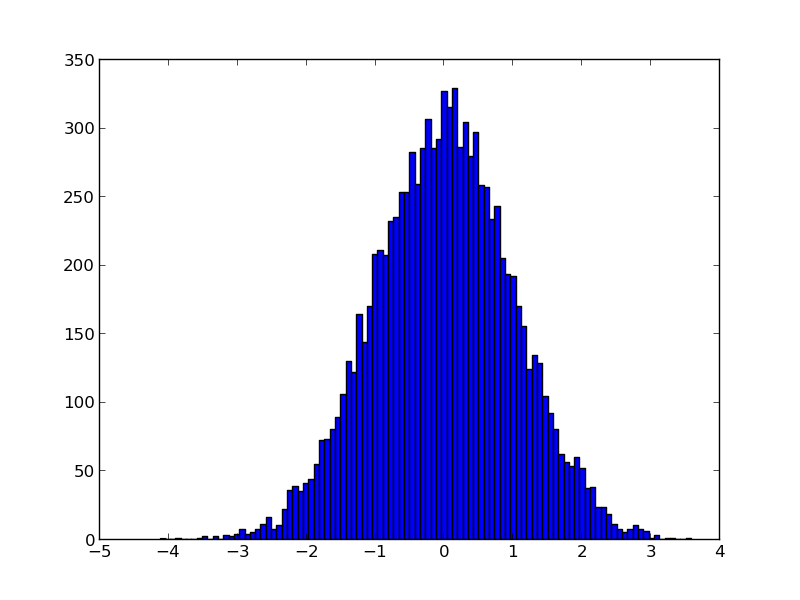
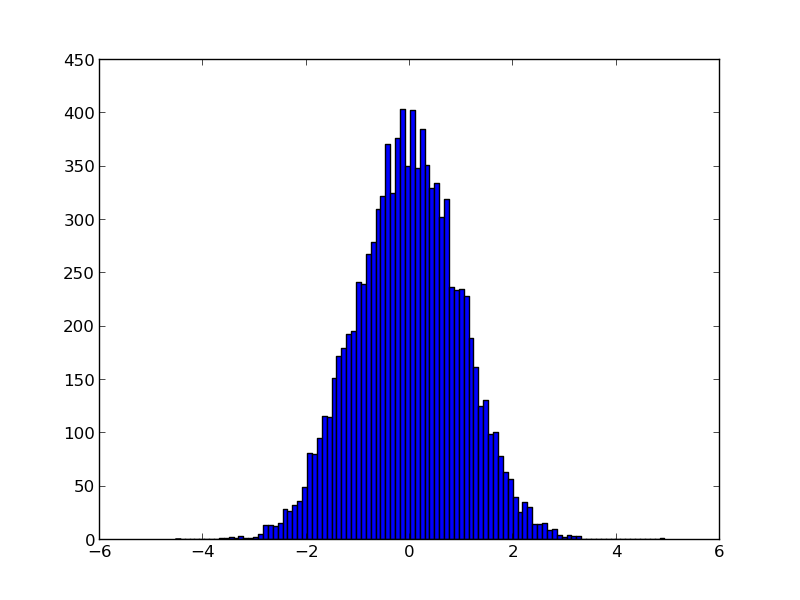
Add record-vars example.

diff --git a/2013/infrastructure-for-reproducibility/output-site/example/index.html b/2013/infrastructure-for-reproducibility/output-site/example/index.html
@@ -398,34 +398,34 @@ Change widths as necessary
 <p>Generate random data and plot a histogram:
 <div class="highlight"><pre><a name="example--code001.py-idio-pycon-pyg.html-1"></a><span class="gp">&gt;&gt;&gt; </span><span class="n">x</span> <span class="o">=</span> <span class="n">numpy</span><span class="o">.</span><span class="n">random</span><span class="o">.</span><span class="n">randn</span><span class="p">(</span><span class="mi">10000</span><span class="p">)</span>
 <a name="example--code001.py-idio-pycon-pyg.html-2"></a><span class="gp">&gt;&gt;&gt; </span><span class="n">pyplot</span><span class="o">.</span><span class="n">hist</span><span class="p">(</span><span class="n">x</span><span class="p">,</span> <span class="mi">100</span><span class="p">)</span>
-<a name="example--code001.py-idio-pycon-pyg.html-3"></a><span class="go">(array([  1,   0,   0,   1,   0,   0,   0,   1,   2,   0,   2,   0,   3,</span>
-<a name="example--code001.py-idio-pycon-pyg.html-4"></a><span class="go">         2,   4,   7,   4,   5,   7,  11,  16,   7,  10,  22,  36,  39,</span>
-<a name="example--code001.py-idio-pycon-pyg.html-5"></a><span class="go">        35,  41,  44,  55,  72,  73,  80,  89, 106, 130, 122, 164, 144,</span>
-<a name="example--code001.py-idio-pycon-pyg.html-6"></a><span class="go">       170, 208, 211, 207, 232, 235, 253, 253, 282, 259, 285, 306, 285,</span>
-<a name="example--code001.py-idio-pycon-pyg.html-7"></a><span class="go">       292, 327, 315, 329, 286, 304, 279, 297, 258, 257, 233, 243, 205,</span>
-<a name="example--code001.py-idio-pycon-pyg.html-8"></a><span class="go">       193, 192, 170, 155, 124, 134, 128, 104,  92,  80,  62,  56,  53,</span>
-<a name="example--code001.py-idio-pycon-pyg.html-9"></a><span class="go">        60,  52,  37,  38,  23,  23,  18,  11,   7,   5,   7,  10,   7,</span>
-<a name="example--code001.py-idio-pycon-pyg.html-10"></a><span class="go">         6,   1,   3,   0,   1,   1,   0,   0,   1]), array([-4.12189527, -4.04472509, -3.96755491, -3.89038473, -3.81321455,</span>
-<a name="example--code001.py-idio-pycon-pyg.html-11"></a><span class="go">       -3.73604436, -3.65887418, -3.581704  , -3.50453382, -3.42736364,</span>
-<a name="example--code001.py-idio-pycon-pyg.html-12"></a><span class="go">       -3.35019346, -3.27302328, -3.1958531 , -3.11868292, -3.04151274,</span>
-<a name="example--code001.py-idio-pycon-pyg.html-13"></a><span class="go">       -2.96434256, -2.88717238, -2.8100022 , -2.73283202, -2.65566183,</span>
-<a name="example--code001.py-idio-pycon-pyg.html-14"></a><span class="go">       -2.57849165, -2.50132147, -2.42415129, -2.34698111, -2.26981093,</span>
-<a name="example--code001.py-idio-pycon-pyg.html-15"></a><span class="go">       -2.19264075, -2.11547057, -2.03830039, -1.96113021, -1.88396003,</span>
-<a name="example--code001.py-idio-pycon-pyg.html-16"></a><span class="go">       -1.80678985, -1.72961967, -1.65244948, -1.5752793 , -1.49810912,</span>
-<a name="example--code001.py-idio-pycon-pyg.html-17"></a><span class="go">       -1.42093894, -1.34376876, -1.26659858, -1.1894284 , -1.11225822,</span>
-<a name="example--code001.py-idio-pycon-pyg.html-18"></a><span class="go">       -1.03508804, -0.95791786, -0.88074768, -0.8035775 , -0.72640732,</span>
-<a name="example--code001.py-idio-pycon-pyg.html-19"></a><span class="go">       -0.64923713, -0.57206695, -0.49489677, -0.41772659, -0.34055641,</span>
-<a name="example--code001.py-idio-pycon-pyg.html-20"></a><span class="go">       -0.26338623, -0.18621605, -0.10904587, -0.03187569,  0.04529449,</span>
-<a name="example--code001.py-idio-pycon-pyg.html-21"></a><span class="go">        0.12246467,  0.19963485,  0.27680503,  0.35397522,  0.4311454 ,</span>
-<a name="example--code001.py-idio-pycon-pyg.html-22"></a><span class="go">        0.50831558,  0.58548576,  0.66265594,  0.73982612,  0.8169963 ,</span>
-<a name="example--code001.py-idio-pycon-pyg.html-23"></a><span class="go">        0.89416648,  0.97133666,  1.04850684,  1.12567702,  1.2028472 ,</span>
-<a name="example--code001.py-idio-pycon-pyg.html-24"></a><span class="go">        1.28001738,  1.35718757,  1.43435775,  1.51152793,  1.58869811,</span>
-<a name="example--code001.py-idio-pycon-pyg.html-25"></a><span class="go">        1.66586829,  1.74303847,  1.82020865,  1.89737883,  1.97454901,</span>
-<a name="example--code001.py-idio-pycon-pyg.html-26"></a><span class="go">        2.05171919,  2.12888937,  2.20605955,  2.28322973,  2.36039992,</span>
-<a name="example--code001.py-idio-pycon-pyg.html-27"></a><span class="go">        2.4375701 ,  2.51474028,  2.59191046,  2.66908064,  2.74625082,</span>
-<a name="example--code001.py-idio-pycon-pyg.html-28"></a><span class="go">        2.823421  ,  2.90059118,  2.97776136,  3.05493154,  3.13210172,</span>
-<a name="example--code001.py-idio-pycon-pyg.html-29"></a><span class="go">        3.2092719 ,  3.28644208,  3.36361227,  3.44078245,  3.51795263,</span>
-<a name="example--code001.py-idio-pycon-pyg.html-30"></a><span class="go">        3.59512281]), &lt;a list of 100 Patch objects&gt;)</span>
+<a name="example--code001.py-idio-pycon-pyg.html-3"></a><span class="go">(array([  1,   0,   0,   0,   0,   0,   0,   0,   0,   1,   1,   2,   1,</span>
+<a name="example--code001.py-idio-pycon-pyg.html-4"></a><span class="go">         3,   1,   1,   2,   5,  13,  13,  12,  15,  28,  26,  32,  36,</span>
+<a name="example--code001.py-idio-pycon-pyg.html-5"></a><span class="go">        49,  81,  80,  95, 115, 114, 151, 172, 179, 192, 195, 241, 239,</span>
+<a name="example--code001.py-idio-pycon-pyg.html-6"></a><span class="go">       267, 278, 309, 322, 370, 324, 376, 403, 350, 402, 348, 384, 351,</span>
+<a name="example--code001.py-idio-pycon-pyg.html-7"></a><span class="go">       329, 334, 302, 319, 236, 233, 234, 228, 188, 161, 125, 130,  98,</span>
+<a name="example--code001.py-idio-pycon-pyg.html-8"></a><span class="go">       100,  78,  63,  56,  39,  25,  35,  30,  14,  14,  15,   8,   9,</span>
+<a name="example--code001.py-idio-pycon-pyg.html-9"></a><span class="go">         4,   2,   4,   3,   3,   0,   0,   0,   0,   0,   0,   0,   0,</span>
+<a name="example--code001.py-idio-pycon-pyg.html-10"></a><span class="go">         0,   0,   0,   0,   0,   0,   0,   0,   1]), array([-4.53225772, -4.43749528, -4.34273284, -4.24797041, -4.15320797,</span>
+<a name="example--code001.py-idio-pycon-pyg.html-11"></a><span class="go">       -4.05844553, -3.9636831 , -3.86892066, -3.77415822, -3.67939579,</span>
+<a name="example--code001.py-idio-pycon-pyg.html-12"></a><span class="go">       -3.58463335, -3.48987091, -3.39510848, -3.30034604, -3.2055836 ,</span>
+<a name="example--code001.py-idio-pycon-pyg.html-13"></a><span class="go">       -3.11082117, -3.01605873, -2.92129629, -2.82653386, -2.73177142,</span>
+<a name="example--code001.py-idio-pycon-pyg.html-14"></a><span class="go">       -2.63700898, -2.54224655, -2.44748411, -2.35272167, -2.25795923,</span>
+<a name="example--code001.py-idio-pycon-pyg.html-15"></a><span class="go">       -2.1631968 , -2.06843436, -1.97367192, -1.87890949, -1.78414705,</span>
+<a name="example--code001.py-idio-pycon-pyg.html-16"></a><span class="go">       -1.68938461, -1.59462218, -1.49985974, -1.4050973 , -1.31033487,</span>
+<a name="example--code001.py-idio-pycon-pyg.html-17"></a><span class="go">       -1.21557243, -1.12080999, -1.02604756, -0.93128512, -0.83652268,</span>
+<a name="example--code001.py-idio-pycon-pyg.html-18"></a><span class="go">       -0.74176025, -0.64699781, -0.55223537, -0.45747294, -0.3627105 ,</span>
+<a name="example--code001.py-idio-pycon-pyg.html-19"></a><span class="go">       -0.26794806, -0.17318563, -0.07842319,  0.01633925,  0.11110168,</span>
+<a name="example--code001.py-idio-pycon-pyg.html-20"></a><span class="go">        0.20586412,  0.30062656,  0.39538899,  0.49015143,  0.58491387,</span>
+<a name="example--code001.py-idio-pycon-pyg.html-21"></a><span class="go">        0.6796763 ,  0.77443874,  0.86920118,  0.96396362,  1.05872605,</span>
+<a name="example--code001.py-idio-pycon-pyg.html-22"></a><span class="go">        1.15348849,  1.24825093,  1.34301336,  1.4377758 ,  1.53253824,</span>
+<a name="example--code001.py-idio-pycon-pyg.html-23"></a><span class="go">        1.62730067,  1.72206311,  1.81682555,  1.91158798,  2.00635042,</span>
+<a name="example--code001.py-idio-pycon-pyg.html-24"></a><span class="go">        2.10111286,  2.19587529,  2.29063773,  2.38540017,  2.4801626 ,</span>
+<a name="example--code001.py-idio-pycon-pyg.html-25"></a><span class="go">        2.57492504,  2.66968748,  2.76444991,  2.85921235,  2.95397479,</span>
+<a name="example--code001.py-idio-pycon-pyg.html-26"></a><span class="go">        3.04873722,  3.14349966,  3.2382621 ,  3.33302453,  3.42778697,</span>
+<a name="example--code001.py-idio-pycon-pyg.html-27"></a><span class="go">        3.52254941,  3.61731184,  3.71207428,  3.80683672,  3.90159915,</span>
+<a name="example--code001.py-idio-pycon-pyg.html-28"></a><span class="go">        3.99636159,  4.09112403,  4.18588646,  4.2806489 ,  4.37541134,</span>
+<a name="example--code001.py-idio-pycon-pyg.html-29"></a><span class="go">        4.47017378,  4.56493621,  4.65969865,  4.75446109,  4.84922352,</span>
+<a name="example--code001.py-idio-pycon-pyg.html-30"></a><span class="go">        4.94398596]), &lt;a list of 100 Patch objects&gt;)</span>
 </pre></div></p>
 <p>Save the histogram to a png file:
 <div class="highlight"><pre><a name="example--code001.py-idio-pycon-pyg.html-1"></a><span class="gp">&gt;&gt;&gt; </span><span class="n">figfilename</span> <span class="o">=</span> <span class="s">&quot;pyplot-hist-example.png&quot;</span>
@@ -465,10 +465,14 @@ Change widths as necessary
 </pre></div>
 
 <div class="highlight"><pre><a name="example--code002.py-idio-pycon-pyg.html-1"></a><span class="gp">&gt;&gt;&gt; </span><span class="n">pyplot</span><span class="o">.</span><span class="n">plot</span><span class="p">(</span><span class="n">x</span><span class="p">,</span> <span class="n">y</span><span class="p">)</span>
-<a name="example--code002.py-idio-pycon-pyg.html-2"></a><span class="go">[&lt;matplotlib.lines.Line2D object at 0x2557850&gt;]</span>
+<a name="example--code002.py-idio-pycon-pyg.html-2"></a><span class="go">[&lt;matplotlib.lines.Line2D object at 0x2e46850&gt;]</span>
 </pre></div>
 
 <p><img alt="xy plot from csv data" src="pyplot-xy-example.png" /></p>
+<p>Here are the values in 'x':
+["1", "2", "3"]</p>
+<p>Here are the values in 'y':
+["1", "4", "9"]</p>
         </div>
     </div>
     </body>

diff --git a/2013/infrastructure-for-reproducibility/output-site/example/index.md.html b/2013/infrastructure-for-reproducibility/output-site/example/index.md.html
@@ -32,4 +32,10 @@
 <a name="example--index.md-pyg.html-32"></a><span class="p">{{</span> <span class="n">d</span><span class="p">[</span><span class="err">&#39;</span><span class="n">code002</span><span class="p">.</span><span class="n">py</span><span class="p">|</span><span class="n">idio</span><span class="p">|</span><span class="n">pycon</span><span class="p">|</span><span class="n">pyg</span><span class="err">&#39;</span><span class="p">][</span><span class="err">&#39;</span><span class="n">graph</span><span class="p">-</span><span class="n">data</span><span class="err">&#39;</span><span class="p">]</span> <span class="p">}}</span>
 <a name="example--index.md-pyg.html-33"></a>
 <a name="example--index.md-pyg.html-34"></a><span class="p">![</span><span class="n">xy</span> <span class="n">plot</span> <span class="n">from</span> <span class="n">csv</span> <span class="n">data</span><span class="p">](</span><span class="n">pyplot</span><span class="p">-</span><span class="n">xy</span><span class="p">-</span><span class="n">example</span><span class="p">.</span><span class="n">png</span><span class="p">)</span>
+<a name="example--index.md-pyg.html-35"></a>
+<a name="example--index.md-pyg.html-36"></a><span class="n">Here</span> <span class="n">are</span> <span class="n">the</span> <span class="n">values</span> <span class="k">in</span> <span class="sc">&#39;x&#39;</span><span class="p">:</span>
+<a name="example--index.md-pyg.html-37"></a><span class="p">{{</span> <span class="n">d</span><span class="p">[</span><span class="err">&#39;</span><span class="n">code002</span><span class="p">.</span><span class="n">py</span><span class="p">.</span><span class="n">txt</span><span class="p">-</span><span class="n">vars</span><span class="p">.</span><span class="n">json</span><span class="err">&#39;</span><span class="p">].</span><span class="n">from_json</span><span class="p">()[</span><span class="sc">&#39;x&#39;</span><span class="p">]</span> <span class="p">}}</span>
+<a name="example--index.md-pyg.html-38"></a>
+<a name="example--index.md-pyg.html-39"></a><span class="n">Here</span> <span class="n">are</span> <span class="n">the</span> <span class="n">values</span> <span class="k">in</span> <span class="sc">&#39;y&#39;</span><span class="p">:</span>
+<a name="example--index.md-pyg.html-40"></a><span class="p">{{</span> <span class="n">d</span><span class="p">[</span><span class="err">&#39;</span><span class="n">code002</span><span class="p">.</span><span class="n">py</span><span class="p">.</span><span class="n">txt</span><span class="p">-</span><span class="n">vars</span><span class="p">.</span><span class="n">json</span><span class="err">&#39;</span><span class="p">].</span><span class="n">from_json</span><span class="p">()[</span><span class="sc">&#39;y&#39;</span><span class="p">]</span> <span class="p">}}</span>
 </pre></div>

diff --git a/2013/infrastructure-for-reproducibility/output-site/slides.html b/2013/infrastructure-for-reproducibility/output-site/slides.html
@@ -69,8 +69,11 @@ Example config file:</p>
 <div class="highlight"><pre><a name="example--dexy.yaml-pyg.html-1"></a><span class="l-Scalar-Plain">.md|jinja|markdown|easyhtml</span><span class="p-Indicator">:</span>
 <a name="example--dexy.yaml-pyg.html-2"></a>    <span class="p-Indicator">-</span> <span class="l-Scalar-Plain">.py|idio</span>
 <a name="example--dexy.yaml-pyg.html-3"></a>    <span class="p-Indicator">-</span> <span class="l-Scalar-Plain">.py|idio|pycon|pyg</span><span class="p-Indicator">:</span>
-<a name="example--dexy.yaml-pyg.html-4"></a>        <span class="p-Indicator">-</span> <span class="l-Scalar-Plain">pycon</span><span class="p-Indicator">:</span> <span class="p-Indicator">{</span> <span class="nv">add-new-files</span><span class="p-Indicator">:</span> <span class="nv">True</span> <span class="p-Indicator">}</span>
-<a name="example--dexy.yaml-pyg.html-5"></a>        <span class="p-Indicator">-</span> <span class="l-Scalar-Plain">.csv</span>
+<a name="example--dexy.yaml-pyg.html-4"></a>        <span class="p-Indicator">-</span> <span class="l-Scalar-Plain">pycon</span><span class="p-Indicator">:</span> <span class="p-Indicator">{</span>
+<a name="example--dexy.yaml-pyg.html-5"></a>            <span class="nv">add-new-files</span><span class="p-Indicator">:</span> <span class="nv">True</span><span class="p-Indicator">,</span>
+<a name="example--dexy.yaml-pyg.html-6"></a>            <span class="nv">record-vars</span><span class="p-Indicator">:</span> <span class="nv">True</span>
+<a name="example--dexy.yaml-pyg.html-7"></a>        <span class="p-Indicator">}</span>
+<a name="example--dexy.yaml-pyg.html-8"></a>        <span class="p-Indicator">-</span> <span class="l-Scalar-Plain">.csv</span>
 </pre></div>
 </div>
 

diff --git a/2013/infrastructure-for-reproducibility/example/index.md b/2013/infrastructure-for-reproducibility/example/index.md
@@ -32,3 +32,9 @@ Here is some CSV data
 {{ d['code002.py|idio|pycon|pyg']['graph-data'] }}
 
 ![xy plot from csv data](pyplot-xy-example.png)
+
+Here are the values in 'x':
+{{ d['code002.py.txt-vars.json'].from_json()['x'] }}
+
+Here are the values in 'y':
+{{ d['code002.py.txt-vars.json'].from_json()['y'] }}

diff --git a/2013/infrastructure-for-reproducibility/output-site/example/index.md b/2013/infrastructure-for-reproducibility/output-site/example/index.md
@@ -32,3 +32,9 @@ Here is some CSV data
 {{ d['code002.py|idio|pycon|pyg']['graph-data'] }}
 
 ![xy plot from csv data](pyplot-xy-example.png)
+
+Here are the values in 'x':
+{{ d['code002.py.txt-vars.json'].from_json()['x'] }}
+
+Here are the values in 'y':
+{{ d['code002.py.txt-vars.json'].from_json()['y'] }}
